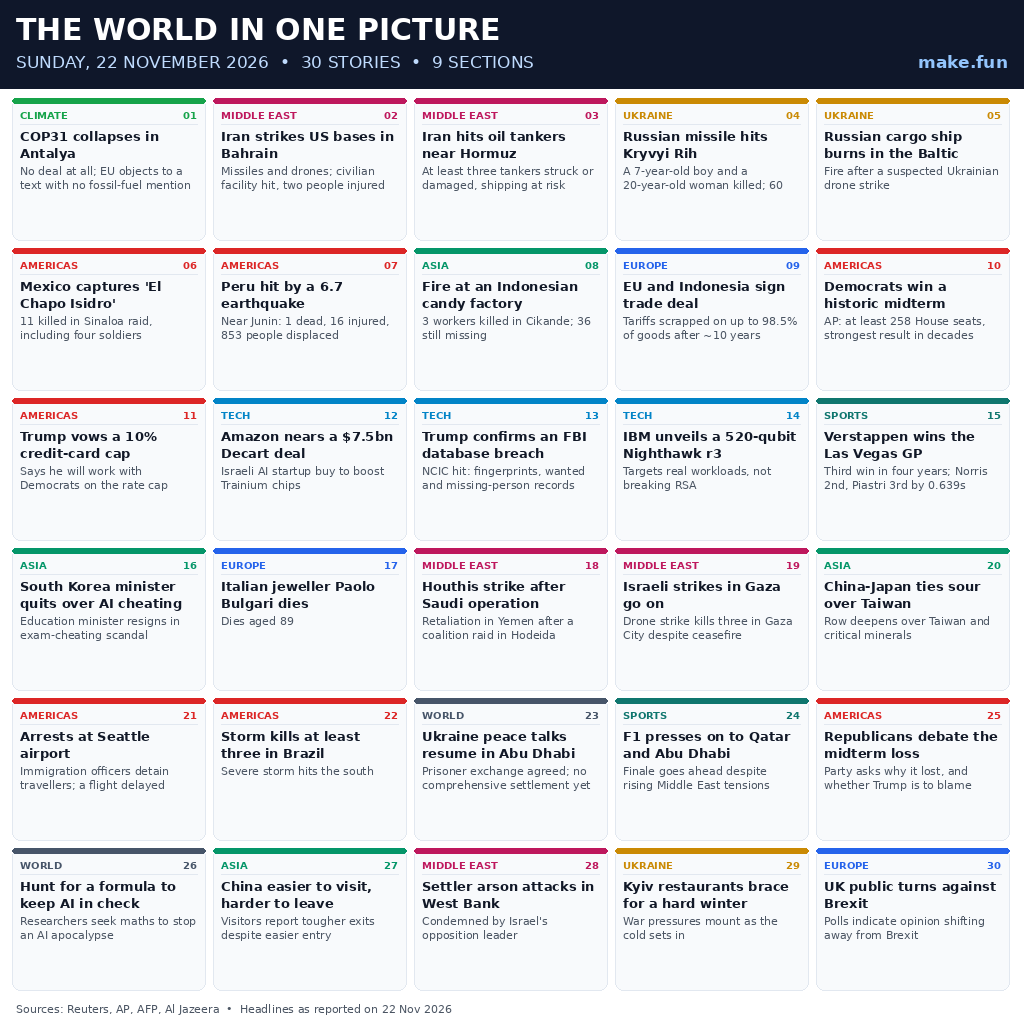
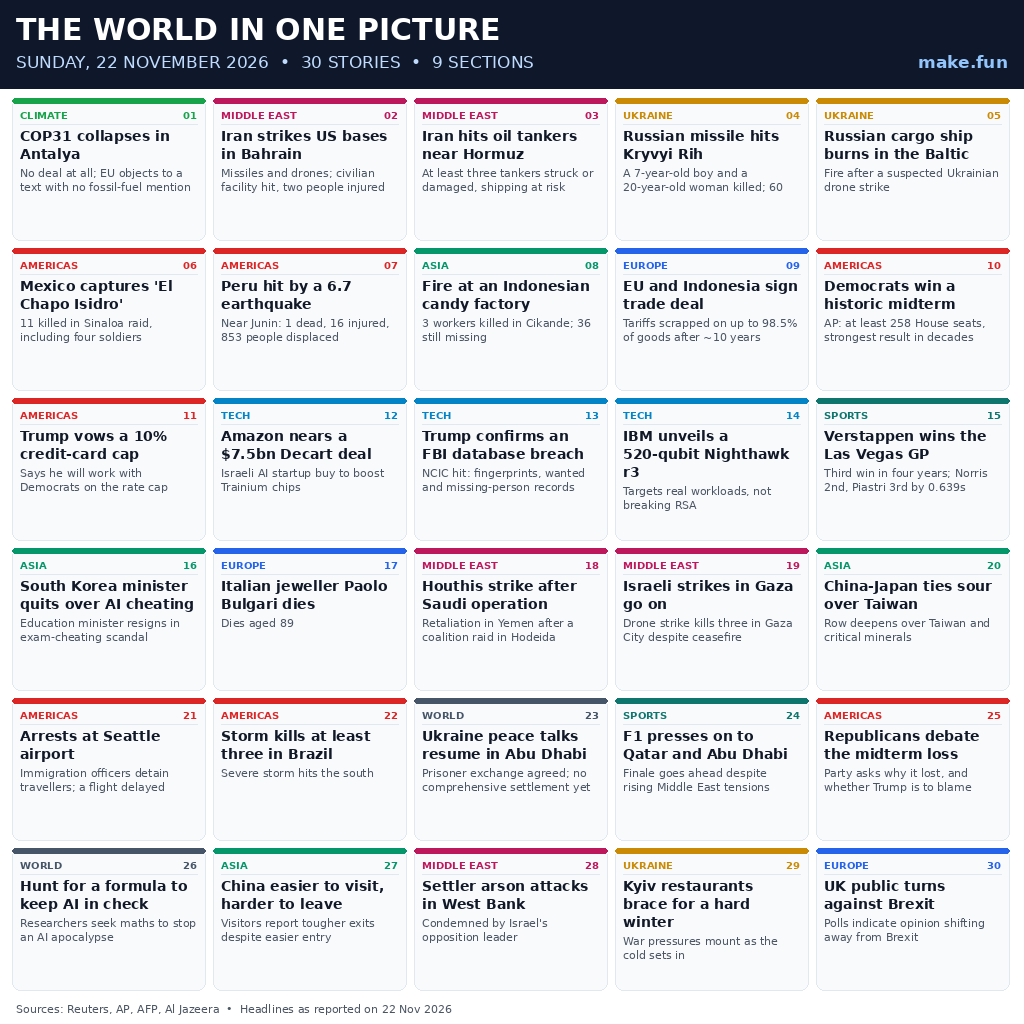
Revise image: card dividers, larger headlines

diff --git a/build_image.py b/build_image.py
@@ -106,11 +106,11 @@ def main():
         d.text((x + 8, y + 11), region, font=font(10, True), fill=color)
         d.text((x + cw - 8, y + 11), f"{i + 1:02d}", font=font(10, True), fill=color, anchor="ra")
         d.line([(x + 8, y + 26), (x + cw - 8, y + 26)], fill=(226, 232, 240))
-        lines = wrap(d, head, font(13, True), cw - 16)[:3]
+        lines = wrap(d, head, font(14, True), cw - 16)[:3]
         ly = y + 30
         for ln in lines:
-            d.text((x + 8, ly), ln, font=font(13, True), fill=INK)
-            ly += 17
+            d.text((x + 8, ly), ln, font=font(14, True), fill=INK)
+            ly += 18
         dlines = wrap(d, detail, font(11), cw - 16)[:2]
         for ln in dlines:
             d.text((x + 8, ly + 2), ln, font=font(11), fill=MUTED)
